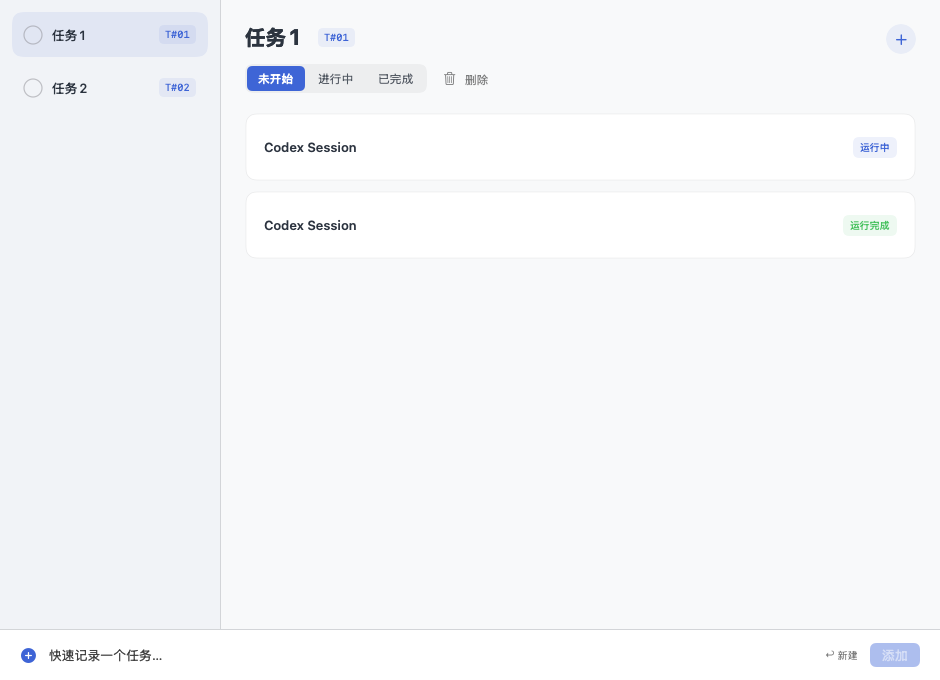
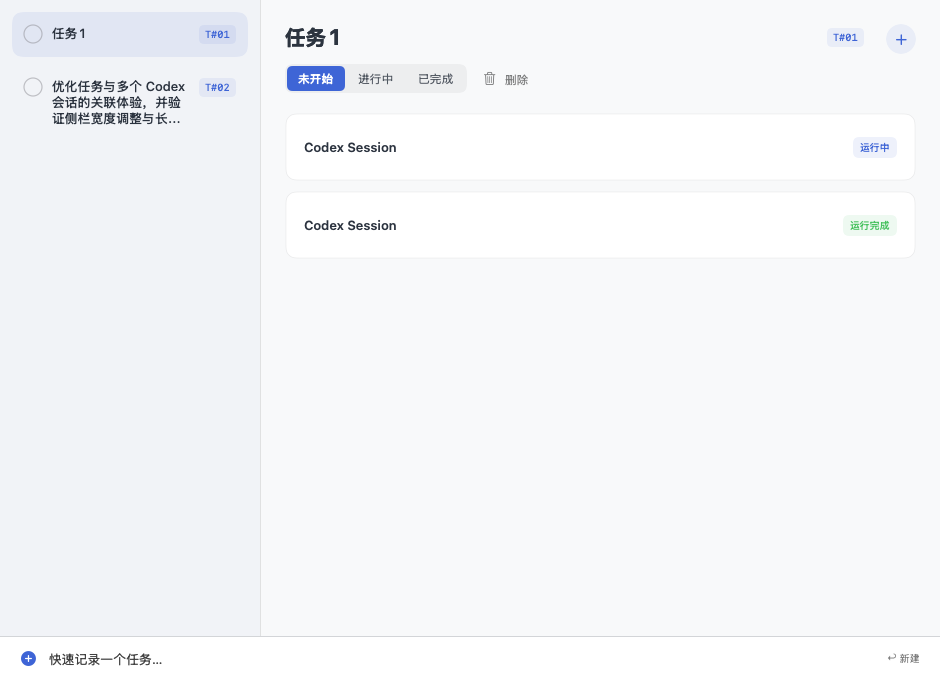
feat: add resizable sidebar and persistent multi-session picker

diff --git a/Sources/FloatingWorkbench/Views.swift b/Sources/FloatingWorkbench/Views.swift
@@ -1,5 +1,4 @@
 import SwiftUI
-import AppKit
 import LiteCore
 
 // Preserve the full version's visual language; the wireframe specifies layout only.
@@ -14,10 +13,9 @@ struct RootView: View {
     @State private var deleting: TaskItem?
     var body: some View {
         VStack(spacing: 0) {
-            HStack(alignment: .top, spacing: 0) {
-                taskList.frame(width: 220)
-                Divider()
-                taskDetail.frame(maxWidth: .infinity, maxHeight: .infinity)
+            HSplitView {
+                taskList.frame(minWidth: 180, idealWidth: 260, maxWidth: 440)
+                taskDetail.frame(minWidth: 340, maxWidth: .infinity, maxHeight: .infinity)
             }.frame(maxWidth: .infinity, maxHeight: .infinity)
             if let message = model.errorMessage {
                 HStack(alignment: .top, spacing: 8) {
@@ -34,10 +32,6 @@ struct RootView: View {
                     .textFieldStyle(.plain).focused($quickFocused).onSubmit { model.addTask() }
                     .accessibilityLabel("快速记录一个任务").accessibilityIdentifier("quick-task-input")
                 Text("↩ 新建").font(.caption).foregroundColor(.secondary)
-                Button("添加") { model.addTask(); quickFocused = true }
-                    .buttonStyle(.borderedProminent).tint(accent)
-                    .disabled(model.draft.trimmingCharacters(in: .whitespacesAndNewlines).isEmpty)
-                    .help("创建任务并复制关联指令（回车）").accessibilityLabel("创建任务")
             }
             .padding(.horizontal, 20).padding(.vertical, 13).background(Color.white)
         }
@@ -54,14 +48,15 @@ struct RootView: View {
         ScrollView {
             LazyVStack(spacing: 8) {
                 ForEach(model.snapshot.tasks) { task in
-                    HStack(spacing: 10) {
+                    HStack(alignment: .top, spacing: 10) {
                         Button { model.status(task, task.status == .done ? .todo : .done) } label: {
                             StatusCircle(status: task.status).frame(width: 18, height: 18)
                         }.help(task.status == .done ? "标为未开始" : "标为已完成").accessibilityLabel("切换 \(task.number) 完成状态")
                         Button { model.selectedTaskID = task.id } label: {
-                            HStack(spacing: 8) {
+                            HStack(alignment: .top, spacing: 8) {
                                 Text(task.title).font(.system(size: 13, weight: .medium))
-                                    .lineLimit(2).frame(maxWidth: .infinity, alignment: .leading)
+                                    .lineLimit(3).fixedSize(horizontal: false, vertical: true)
+                                    .frame(maxWidth: .infinity, alignment: .leading).help(task.title)
                                 TaskNumberTag(number: task.number)
                             }.contentShape(Rectangle())
                         }.accessibilityIdentifier("task-row-\(task.id)")
@@ -144,11 +139,12 @@ private struct TaskDetailView: View {
             HStack(alignment: .top, spacing: 12) {
                 VStack(alignment: .leading, spacing: 14) {
                     HStack(spacing: 10) {
-                        TextField("任务名称", text: $title).textFieldStyle(.plain)
+                        TextField("任务名称", text: $title, axis: .vertical).textFieldStyle(.plain)
+                            .lineLimit(1...4).help(title)
                             .font(.system(size: 22, weight: .bold))
                             .focused($titleFocused).onSubmit { saveTitle(); titleFocused = false }
                             .onChange(of: titleFocused) { focused in if !focused { saveTitle() } }
-                            .frame(minWidth: 40, maxWidth: min(360, max(40, (title as NSString).size(withAttributes: [.font: NSFont.boldSystemFont(ofSize: 22)]).width + 8)))
+                            .frame(maxWidth: .infinity, alignment: .leading)
                             .accessibilityIdentifier("task-title")
                         Button { model.copyPrompt(task); copied = true } label: { TaskNumberTag(number: task.number) }
                             .help(copied ? "已复制关联指令" : "复制关联指令")
@@ -228,15 +224,22 @@ private struct TaskDetailView: View {
 private struct SessionPicker: View {
     @ObservedObject var model: AppModel
     let task: TaskItem
-    @Environment(\.dismiss) private var dismiss
     @State private var search = ""
     @State private var moving: ObservedSession?
     @State private var copied = false
     private var filtered: [ObservedSession] {
-        model.observations.filter { session in
-            !model.snapshot.sessions(for: task.id).contains { $0.id == session.id }
-                && (search.isEmpty || session.title.localizedCaseInsensitiveContains(search))
-        }
+        model.observations.filter { search.isEmpty || $0.title.localizedCaseInsensitiveContains(search) }
+    }
+    private func attachment(for session: ObservedSession) -> SessionItem? {
+        model.snapshot.sessions.first { $0.id == session.id }
+    }
+    private func isSelected(_ session: ObservedSession) -> Bool {
+        attachment(for: session)?.taskID == task.id
+    }
+    private func toggle(_ session: ObservedSession) {
+        if let current = attachment(for: session), current.taskID == task.id { model.detach(current) }
+        else if let current = attachment(for: session), current.taskID != nil { moving = session }
+        else { model.attach(session, to: task) }
     }
     var body: some View {
         VStack(alignment: .leading, spacing: 12) {
@@ -246,26 +249,29 @@ private struct SessionPicker: View {
                 Spacer()
                 Button("打开 Codex") { model.copyPrompt(task); model.showCodex() }.foregroundColor(accent)
             }.font(.system(size: 12))
-            Text("同一任务可关联多个聊天；在新聊天中发送关联指令即可添加。")
+            Text("可连续勾选多个会话，再次点击取消关联；点击弹窗外部收起。")
                 .font(.system(size: 11)).foregroundColor(.secondary).fixedSize(horizontal: false, vertical: true)
             TextField("搜索本机全部会话", text: $search).textFieldStyle(.roundedBorder)
             ScrollView {
                 LazyVStack(alignment: .leading, spacing: 8) {
                     ForEach(filtered) { session in
-                        Button {
-                            if model.snapshot.sessions.contains(where: { $0.id == session.id && $0.taskID != nil && $0.taskID != task.id }) { moving = session }
-                            else { model.attach(session, to: task); dismiss() }
-                        } label: {
-                            VStack(alignment: .leading, spacing: 6) {
-                                Text(session.title).font(.system(size: 12, weight: .medium)).lineLimit(2).multilineTextAlignment(.leading)
-                                HStack {
-                                    SessionStatusTag(status: session.status)
-                                    if let current = model.snapshot.sessions.first(where: { $0.id == session.id })?.taskID {
-                                        Text("已关联 " + String(format: "T#%02lld", current)).font(.system(size: 10)).foregroundColor(.secondary)
+                        Button { toggle(session) } label: {
+                            HStack(alignment: .top, spacing: 10) {
+                                Image(systemName: isSelected(session) ? "checkmark.square.fill" : "square")
+                                    .font(.system(size: 16)).foregroundColor(isSelected(session) ? accent : .gray.opacity(0.6))
+                                VStack(alignment: .leading, spacing: 6) {
+                                    Text(session.title).font(.system(size: 12, weight: .medium)).lineLimit(2).multilineTextAlignment(.leading)
+                                    HStack {
+                                        SessionStatusTag(status: session.status)
+                                        if let current = attachment(for: session)?.taskID, current != task.id {
+                                            Text("已关联 " + String(format: "T#%02lld", current)).font(.system(size: 10)).foregroundColor(.secondary)
+                                        }
                                     }
                                 }
-                            }.frame(maxWidth: .infinity, alignment: .leading).padding(12).taskCard()
+                            }.frame(maxWidth: .infinity, alignment: .leading).padding(12).taskCard(selected: isSelected(session))
                         }
+                        .accessibilityIdentifier("session-choice-\(session.id)")
+                        .accessibilityValue(isSelected(session) ? "已关联" : "未关联")
                     }
                     if filtered.isEmpty { Text(model.pickerMessage ?? "没有匹配的会话。可在 Codex 新建聊天后发送关联指令。").font(.system(size: 12)).foregroundColor(.secondary).padding(.vertical, 8) }
                 }.padding(1)
@@ -273,16 +279,16 @@ private struct SessionPicker: View {
         }.padding(16).foregroundColor(ink).background(canvas).preferredColorScheme(.light).tint(accent).buttonStyle(.plain)
         .onAppear { model.scheduleRead(delay: 0) }
         .confirmationDialog("将会话移到 \(task.number)？", isPresented: Binding(get: { moving != nil }, set: { if !$0 { moving = nil } }), titleVisibility: .visible) {
-            Button("移动关联") { if let session = moving { model.attach(session, to: task) }; moving = nil; dismiss() }
+            Button("移动关联") { if let session = moving { model.attach(session, to: task) }; moving = nil }
             Button("取消", role: .cancel) { moving = nil }
         } message: { Text("该会话会从原任务移出，原任务的其他会话不受影响。") }
     }
 }
 
 private extension View {
-    func taskCard() -> some View {
-        background(Color.white).cornerRadius(10)
-            .overlay(RoundedRectangle(cornerRadius: 10).stroke(Color.black.opacity(0.05), lineWidth: 1))
+    func taskCard(selected: Bool = false) -> some View {
+        background(selected ? accent.opacity(0.045) : Color.white).cornerRadius(10)
+            .overlay(RoundedRectangle(cornerRadius: 10).stroke(selected ? accent.opacity(0.3) : Color.black.opacity(0.05), lineWidth: 1))
     }
 }
 

diff --git a/Sources/FloatingWorkbench/AppHost.swift b/Sources/FloatingWorkbench/AppHost.swift
@@ -12,6 +12,7 @@ final class TaskPanel: NSPanel {
 @MainActor
 final class AppDelegate: NSObject, NSApplicationDelegate, NSWindowDelegate {
     private var panel: TaskPanel!
+    private var sidebarWidthInitialized = false
     private var model: AppModel!
     private var statusItem: NSStatusItem!
     private var hotKey: EventHotKeyRef?
@@ -31,7 +32,13 @@ final class AppDelegate: NSObject, NSApplicationDelegate, NSWindowDelegate {
             let isolated = smokePath != nil || CommandLine.arguments.contains("--demo")
             let preferences = isolated ? UserDefaults(suiteName: "ai.sunkey.codextasks.lite.smoke")! : .standard
             if isolated { if try store.snapshot().tasks.isEmpty { try seed(store) } }
-            model = try AppModel(store: store, preferences: preferences)
+            let fixtures: [ObservedSession] = isolated ? [
+                ObservedSession(id: "00000000-0000-4000-8000-000000000001", title: "Codex Session", status: .running),
+                ObservedSession(id: "00000000-0000-4000-8000-000000000002", title: "Codex Session", status: .completed),
+                ObservedSession(id: "00000000-0000-4000-8000-000000000003", title: "梳理任务交互与长标题展示"),
+                ObservedSession(id: "00000000-0000-4000-8000-000000000004", title: "检查多会话关联流程")
+            ] : []
+            model = try AppModel(store: store, preferences: preferences, initialObservations: fixtures)
             if isolated { model.selectedTaskID = model.snapshot.tasks.first?.id }
             configureMenu(); configureWindow(); registerHotKey()
             signal(SIGTERM, SIG_IGN)
@@ -98,7 +105,21 @@ final class AppDelegate: NSObject, NSApplicationDelegate, NSWindowDelegate {
         }, 1, &type, Unmanaged.passUnretained(self).toOpaque(), &hotKeyHandler)
         RegisterEventHotKey(UInt32(kVK_Space), UInt32(cmdKey | shiftKey), EventHotKeyID(signature: 0x43544C54, id: 1), GetApplicationEventTarget(), 0, &hotKey)
     }
-    @objc func showWindow() { panel.makeKeyAndOrderFront(nil); NSApp.activate(ignoringOtherApps: true) }
+    @objc func showWindow() {
+        panel.makeKeyAndOrderFront(nil); NSApp.activate(ignoringOtherApps: true)
+        if !sidebarWidthInitialized, let content = panel.contentView {
+            content.layoutSubtreeIfNeeded()
+            if let split = findSplitView(in: content) {
+                split.setPosition(260, ofDividerAt: 0)
+                sidebarWidthInitialized = true
+            }
+        }
+    }
+    private func findSplitView(in view: NSView) -> NSSplitView? {
+        if let split = view as? NSSplitView { return split }
+        for child in view.subviews { if let split = findSplitView(in: child) { return split } }
+        return nil
+    }
     @objc private func quickTask() { showWindow(); NotificationCenter.default.post(name: .focusQuickTask, object: nil) }
     func windowShouldClose(_ sender: NSWindow) -> Bool { panel.orderOut(nil); return false }
     func applicationShouldHandleReopen(_ sender: NSApplication, hasVisibleWindows flag: Bool) -> Bool { showWindow(); return true }
@@ -110,7 +131,7 @@ final class AppDelegate: NSObject, NSApplicationDelegate, NSWindowDelegate {
     }
     private func seed(_ store: TaskStore) throws {
         let first = try store.createTask(title: "任务1")
-        _ = try store.createTask(title: "任务2")
+        _ = try store.createTask(title: "优化任务与多个 Codex 会话的关联体验，并验证侧栏宽度调整与长标题的完整展示")
         try store.attach(ObservedSession(id: "00000000-0000-4000-8000-000000000001", title: "Codex Session", status: .running), to: first)
         try store.attach(ObservedSession(id: "00000000-0000-4000-8000-000000000002", title: "Codex Session", status: .completed), to: first)
     }

diff --git a/Sources/FloatingWorkbench/AppModel.swift b/Sources/FloatingWorkbench/AppModel.swift
@@ -24,8 +24,9 @@ final class AppModel: ObservableObject {
     var sessions: [SessionItem] { selectedTaskID.map { snapshot.sessions(for: $0) } ?? [] }
     var pickerMessage: String? { sessionReadError }
 
-    init(store: TaskStore, preferences: UserDefaults = .standard, reader: CodexReader = CodexReader()) throws {
+    init(store: TaskStore, preferences: UserDefaults = .standard, reader: CodexReader = CodexReader(), initialObservations: [ObservedSession] = []) throws {
         self.store = store; self.preferences = preferences; self.reader = reader
+        self.observations = initialObservations
         self.draft = preferences.string(forKey: "lite.quickDraft") ?? ""
         snapshot = try store.snapshot(); selectedTaskID = snapshot.tasks.first?.id
     }

diff --git a/README.md b/README.md
@@ -11,12 +11,12 @@ macOS 原生任务小窗。左边选任务，右边显示该任务的多个 Code
 
 1. 底部输入任务并按回车，获得 `T#01`；关联指令会自动复制到剪贴板。
 2. 在任意 Codex 聊天中单独发送一行 `关联任务【T#01】`。多个聊天发送同一任务号，就会在该任务下显示多张会话卡片。
-3. 也可点击右上角 `＋`，搜索本机全部会话并关联；已关联其它任务的会话需确认移动。
+3. 也可点击右上角 `＋`，搜索本机全部会话并连续勾选多个；选中后保持弹窗与列表位置，再次点击可取消关联，点击弹窗外部收起。已关联其它任务的会话需确认移动。
 4. 点击会话卡片，在 Codex 中打开对应聊天。每张卡片保留独立会话 ID 和运行状态；窗口呈现方式由 Codex 客户端决定。
 5. `未开始 / 进行中 / 已完成` 手动切换任务状态。会话执行完成不会自动完成任务。
 6. 右键会话卡片可解除关联；删除任务仅删除本地任务及关联，不删除 Codex 聊天。
 
-任务标题可直接编辑，回车或失焦保存。点击任务号可再次复制指令。`⌘N` 聚焦快速记录；`⌘⇧空格` 显示／隐藏窗口；关闭窗口后仍可从菜单栏打开。
+左右栏之间的分隔线可拖动调整宽度。左侧长任务名最多换行三行，悬停查看全文；右侧任务标题自动换行，直接编辑后回车或失焦保存。底部只保留“↩ 新建”提示，按回车创建，无重复的“添加”按钮。点击任务号可再次复制指令。`⌘N` 聚焦快速记录；`⌘⇧空格` 显示／隐藏窗口；关闭窗口后仍可从菜单栏打开。
 
 ## 数据
 

diff --git a/docs/LITE-ARCHITECTURE.md b/docs/LITE-ARCHITECTURE.md
@@ -24,6 +24,6 @@
 
 ## 界面
 
-参考草图只表达布局，视觉沿用 v1-full 的原有风格：浅灰侧栏、蓝色强调色、深色文字、圆角白色卡片和淡色状态标签。不得将草图红线当成视觉规范。主体只有两栏，底部输入框横跨两栏。右侧标题区域显示任务名与编号、三个人工状态及删除动作，右上角圆形加号关联更多会话。每张会话卡片只显示名称和运行状态，点击打开会话，右键解除关联。
+参考草图只表达布局，视觉沿用 v1-full 的原有风格：浅灰侧栏、蓝色强调色、深色文字、圆角白色卡片和淡色状态标签。不得将草图红线当成视觉规范。主体只有两栏，使用原生可拖动分隔线，底部输入框横跨两栏，仅通过回车新建。左侧标题最多三行并提供全文悬停提示，右侧标题自动换行。右侧标题区域显示任务名与编号、三个人工状态及删除动作，右上角圆形加号打开支持连续多选的会话弹窗；勾选保留列表位置，不关闭弹窗，再点可解除，点击弹窗外部收起。每张会话卡片只显示名称和运行状态，点击打开会话，右键解除关联。
 
 没有原版模块、顶部 Tabs、工作空间入口、应用设置、服务运行状态、同步按钮、紧凑窗口或外部执行调度。
